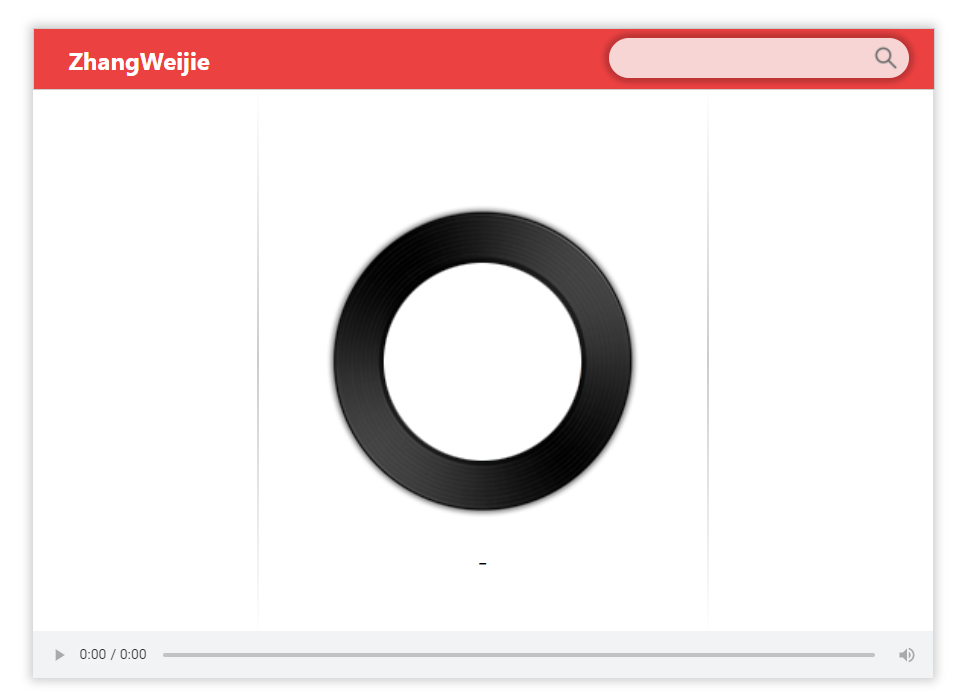
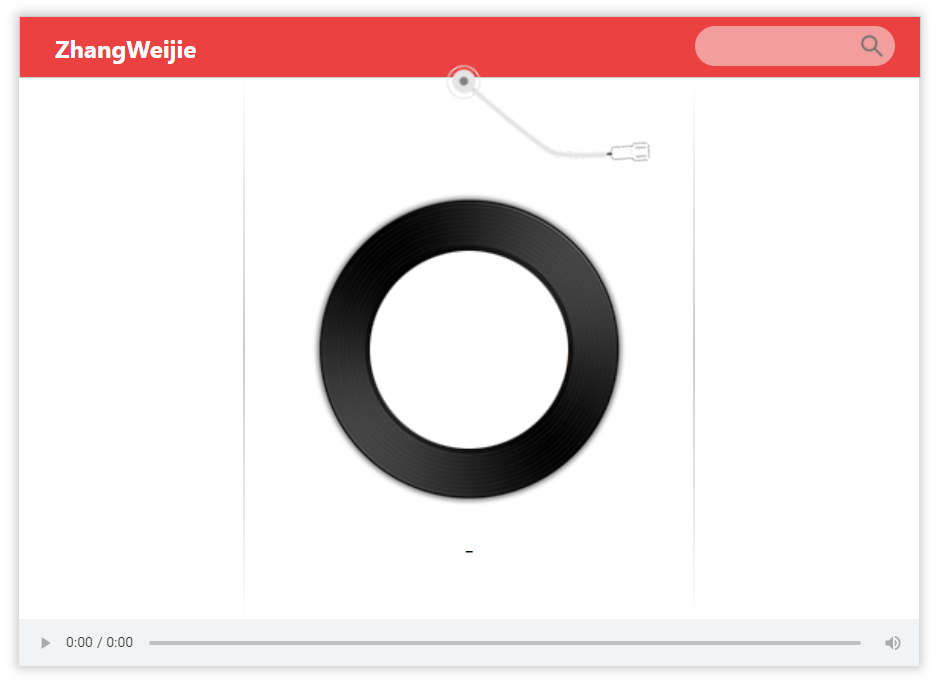
change css style -5

diff --git a/src/css/index.css b/src/css/index.css
@@ -244,7 +244,19 @@ li {
 .player_con.playing .cover {
 	animation-play-state: running;
 }
-
+.player-bar {
+	width: 30%;
+	position: absolute;
+	top: -10px;
+	left: 200px;
+	z-index: 1;
+	transform: rotate(-35deg);
+	transform-origin: 12px 12px;
+	transition: 1s;
+}
+.player_con.playing .player-bar {
+	transform: rotate(5deg);
+}
 #video {
 	width: 100%;
 	height: 100%;
@@ -253,6 +265,7 @@ li {
 	left: 0;
 	background-color: rgba(0, 0, 0, 0.4);
 	cursor: pointer;
+	z-index: 10;
 }
 .video-mv {
 	border-radius: 15px;

diff --git a/index.html b/index.html
@@ -36,6 +36,7 @@
 				<div class="content-img">
 					<input type="button" :value="value" @click="change" v-show="btnShow" />
 					<div class="play-1 player_con" :class="{playing:isPlaying}">
+						<img src="./src/images/player-bar.png" class="player-bar disc" />
 						<a href="javascript:;">
 							<img :src="musicImg" class="music-img disc autoRotate" />
 						</a>
